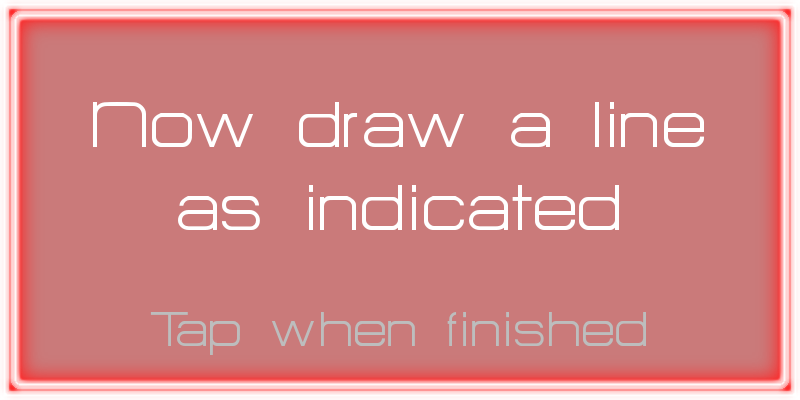
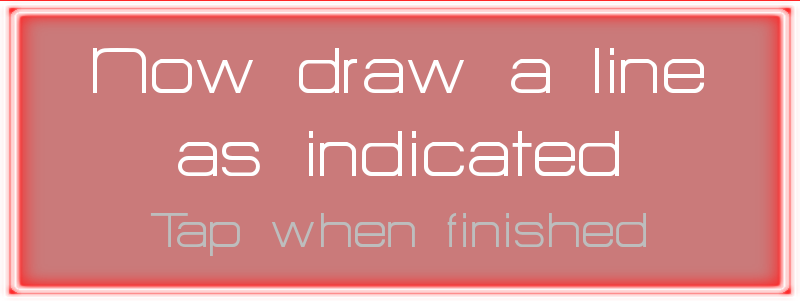
finished level2 tutorial

diff --git a/core/src/com/jnv/bounded/level/ui/FirstTimeGuide.java b/core/src/com/jnv/bounded/level/ui/FirstTimeGuide.java
@@ -24,7 +24,9 @@ public class FirstTimeGuide {
 	private List<Actor> triggerMasks;
 	private Image skipLevelButton;
 	private static final int[] numTextures = {
-			15, 0, 0, 0, 0, 0, 0, 0
+			TutorialDialogCoords.allCoords[0].length,
+			TutorialDialogCoords.allCoords[1].length,
+			0, 0, 0, 0, 0, 0
 	};
 
 	public FirstTimeGuide(final int level, GameStateManager gsm, final LevelState levelState) {
@@ -47,12 +49,13 @@ public class FirstTimeGuide {
 		levelHelpers = new ArrayList<Image>();
 		triggerMasks = new ArrayList<Actor>();
 		for (int i = 0; i < numTextures[level - 1]; i++) {
-			levelHelperMasks.add(new Image(res.getTexture("helper-level1-mask" + (i + 1))));
-			levelHelpers.add(new Image(res.getTexture("helper-level1-" + (i + 1))));
+			levelHelperMasks.add(new Image(res.getTexture("helper-level" + level + "-mask"
+					+ (i + 1))));
+			levelHelpers.add(new Image(res.getTexture("helper-level" + level + "-" + (i + 1))));
 			levelHelpers.get(i).setX(TutorialDialogCoords.allCoords[level - 1][i].x);
 			levelHelpers.get(i).setY(TutorialDialogCoords.allCoords[level - 1][i].y);
 			triggerMasks.add(new Actor());
-			triggerMasks.get(i).setBounds(TutorialDialogCoords.level1Triggers[i]);
+			triggerMasks.get(i).setBounds(TutorialDialogCoords.levelTriggers[level - 1][i]);
 			addAppropriateListener(level, i);
 		}
 	}
@@ -62,8 +65,8 @@ public class FirstTimeGuide {
 			allActors.addActor(levelHelperMasks.get(0));
 			allActors.addActor(levelHelpers.get(0));
 			allActors.addActor(triggerMasks.get(0));
+			allActors.addActor(skipLevelButton);
 		}
-		allActors.addActor(skipLevelButton);
 		stage.addActor(allActors);
 	}
 

diff --git a/core/src/com/jnv/bounded/level/utilities/TutorialDialogCoords.java b/core/src/com/jnv/bounded/level/utilities/TutorialDialogCoords.java
@@ -36,11 +36,13 @@ public final class TutorialDialogCoords {
 	};
 
 	public static final Vector2[] level2 = {
-
+			new Vector2(1133 - DIALOG_WIDTH, 345 + 30 - DIALOG_HALF_HEIGHT),
+			new Vector2(0, Bounded.HEIGHT - 70 - DIALOG_HEIGHT),
+			new Vector2((Bounded.WIDTH - DIALOG_WIDTH) / 2, (Bounded.HEIGHT - DIALOG_HEIGHT) / 2)
 	};
 
 	public static final Vector2[][] allCoords = {
-			level1
+			level1, level2
 	};
 
 	public static final Dimensions[] level1Triggers = {
@@ -48,7 +50,7 @@ public final class TutorialDialogCoords {
 			new Dimensions(level1[1], DIALOG_WIDTH, DIALOG_HEIGHT),
 			new Dimensions(level1[2], DIALOG_WIDTH, DIALOG_HEIGHT),
 			new Dimensions(level1[3], DIALOG_WIDTH, DIALOG_HEIGHT),
-			new Dimensions(level1[4], DIALOG_WIDTH, DIALOG_HEIGHT),
+			new Dimensions(level1[4], DIALOG_WIDTH, DIALOG_HEIGHT - 100),
 			new Dimensions(new Vector2(8 * TOOLBAR_BUTTON_SIZE + 9 * TOOLBAR_BUTTON_PADDING, 0),
 					TOOLBAR_BUTTON_SIZE, TOOLBAR_BUTTON_SIZE),
 			new Dimensions(level1[6], DIALOG_WIDTH, DIALOG_HEIGHT),
@@ -61,5 +63,15 @@ public final class TutorialDialogCoords {
 			new Dimensions(level1[13], DIALOG_WIDTH, DIALOG_HEIGHT),
 			new Dimensions(new Vector2(TOOLBAR_BUTTON_PADDING, 0), TOOLBAR_BUTTON_SIZE,
 					TOOLBAR_BUTTON_SIZE),
+	};
+
+	public static final Dimensions[] level2Triggers = {
+			new Dimensions(level2[0], DIALOG_WIDTH, DIALOG_HEIGHT),
+			new Dimensions(level2[1], DIALOG_WIDTH, DIALOG_HEIGHT),
+			new Dimensions(level2[2], DIALOG_WIDTH, DIALOG_HEIGHT)
+	};
+
+	public static final Dimensions[][] levelTriggers = {
+			level1Triggers, level2Triggers
 	};
 }

diff --git a/core/src/com/jnv/bounded/utilities/TextureLoader.java b/core/src/com/jnv/bounded/utilities/TextureLoader.java
@@ -51,6 +51,11 @@ public class TextureLoader {
 			bounded.res.loadTexture("helpers/level1/level1/mask" + i + ".png",
 					"helper-level1-mask" + i);
 		}
+		for (int i = 1; i <= 3; i++) {
+			bounded.res.loadTexture("helpers/level1/level2/" + i + ".png", "helper-level2-" + i);
+			bounded.res.loadTexture("helpers/level1/level2/mask" + i + ".png",
+					"helper-level2-mask" + i);
+		}
 		bounded.res.loadTexture("helpers/mask.png", "screen_mask");
 		bounded.res.loadTexture("helpers/skip_level_button.png", "skip_level");
 	}
